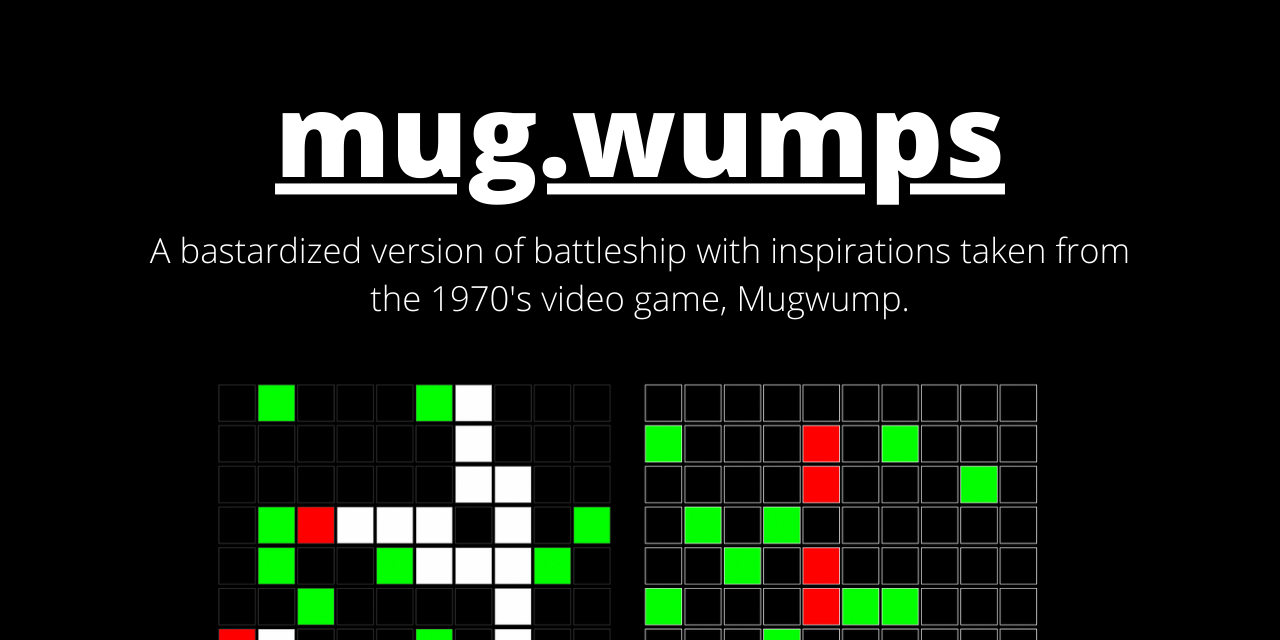
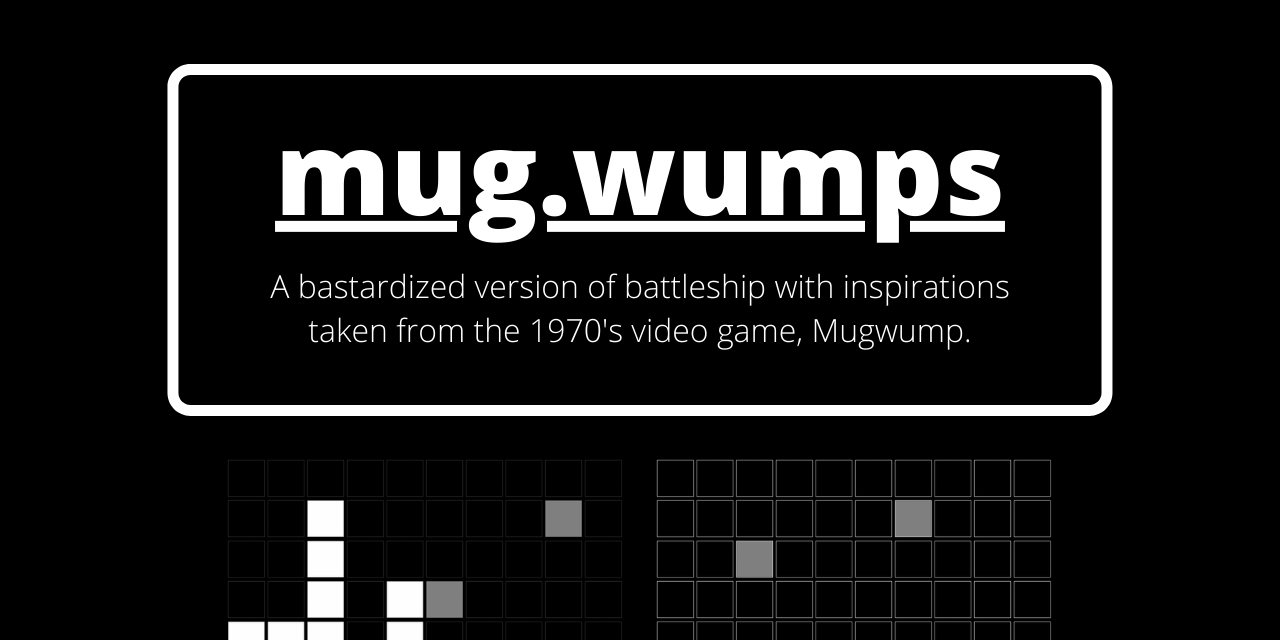
Edit GIFs in README.md

Changed region(s): [[0.125, 0.0938, 0.875, 1.0]]

diff --git a/README.md b/README.md
@@ -12,7 +12,7 @@ A bastardized version of [battleship](https://en.wikipedia.org/wiki/Battleship_(
 
 ## How To Play
 
-To start the game, press the *Start* button. You'll then have a turn to make a find on a *wump*. If you find one, the square you clicked  on turns red. If otherwise, it turns green. The computer is then subsequently given the same opportunity.
+To start the game, press the *Start* button. You'll then have a turn to make a find on a *wump*. If you find one, the square you clicked  on turns **green**. If otherwise, it turns **grey**. The computer is then subsequently given the same opportunity.
 
 ![GIF showcasing randomize feature](./readme_assets/playing_game.gif)
 
